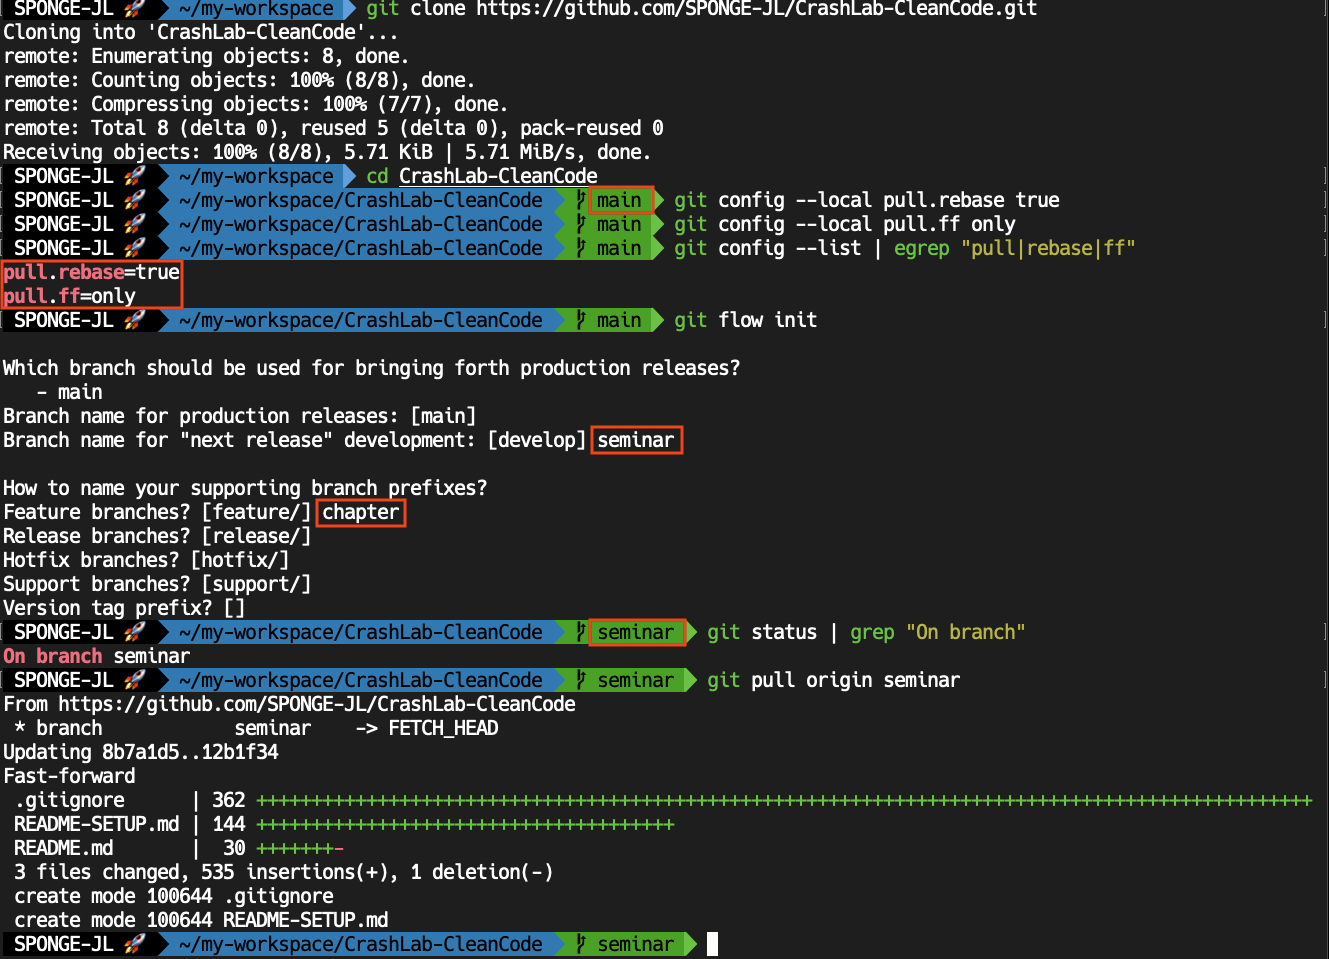
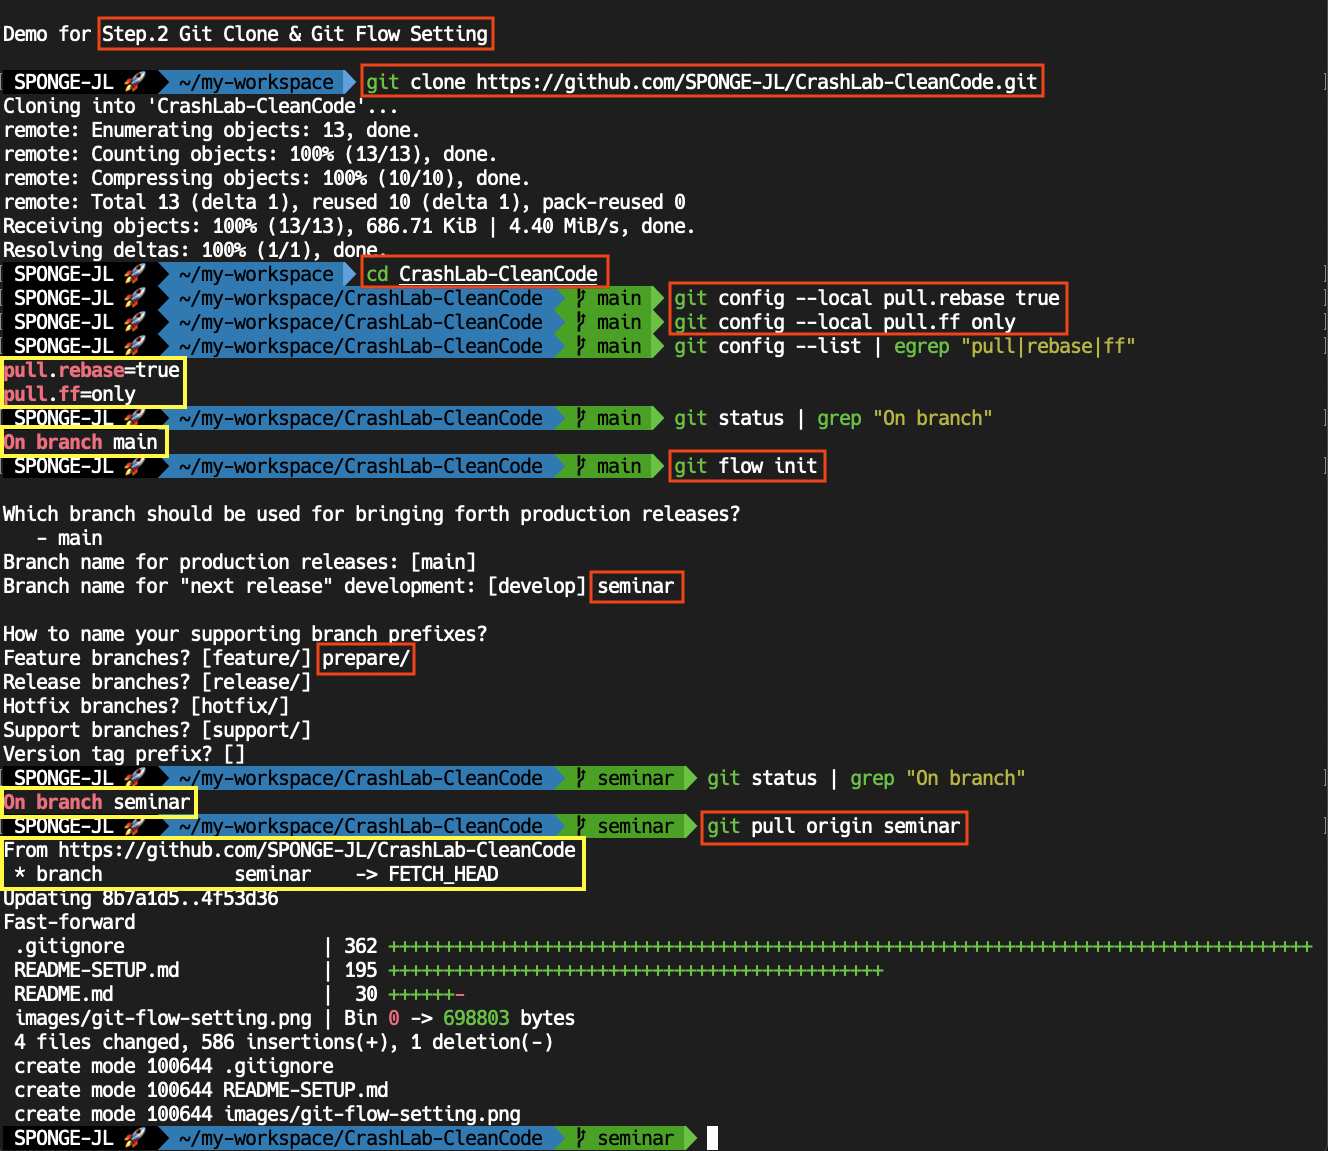
Edit typo & image

Changed region(s): [[0.0, 0.0, 1.0, 1.0], [0.7101, 0.3326, 0.741, 0.3931]]

diff --git a/README-SETUP.md b/README-SETUP.md
@@ -36,14 +36,14 @@
     # pull.ff=only        >> Set fast-forward only
   ```
 
--  Setting Git-Flow
+- Setting Git-Flow
 
   ```bash
   # Check Current Branch
   git status |grep "On branch"
     # Like below ...
     # On branch main
-  
+
   # Start Git-Flow
   git flow init
     # Like below ..
@@ -58,7 +58,7 @@
     # Hotfix branches? [hotfix/]             << ENTER
     # Support branches? [support/]           << ENTER
     # Version tag prefix? []                 << ENTER
-  
+
   # Check Current Branch has been switched
   git status |grep "On branch"
     # Like below : Switched to 'semonar' branch for merging developed feautres (name by 'chapter')
@@ -68,7 +68,7 @@
   git pull origin seminar
   ```
 
-![git-flow-setting-image](./images/git-flow-setting.png)
+  ![git-flow-setting-image](./images/git-flow-setting.png)
 
 ## 3. use Git Flow
 
@@ -151,18 +151,21 @@
 
   ```bash
   # After finish to prepare your seminar
-  # Update seminar (develop) branch
-  TARGET_BRANCH=`git branch |grep "*" |cut -c 3-` && echo "TARGET_BRANCH: ${TARGET_BRANCH}"
+  CURRENT_BRANCH=`git branch |grep "*" |cut -c 3-`
+  echo "CURRENT_BRANCH: ${CURRENT_BRANCH}"
+  
+  # First, Update seminar (develop) branch
   git checkout seminar
   git pull origin seminar
-  git checkout $TARGET_BRANCH
   
   # Then, finish your prepare (feature) branch
-  TARGET_FEATURE=`echo $TARGET_BRANCH |awk -F "/" '{print $2}'` && echo "TARGET_FEATURE: ${TARGET_FEATURE}"
-  git flow feature finish $TARGET_BRANCH
+  git checkout $CURRENT_BRANCH
+  CURRENT_FEATURE=`git flow feature |grep "*" |awk -F " " '{print $2}'`
+  echo "CURRENT_FEATURE: ${CURRENT_FEATURE}"
+  git flow feature finish $CURRENT_FEATURE
   ```
 
-> [Go to Index](./README-SETUP.md#index)
+> [Go to Index](./README-STEUP.md#index)
 
 ---
 
